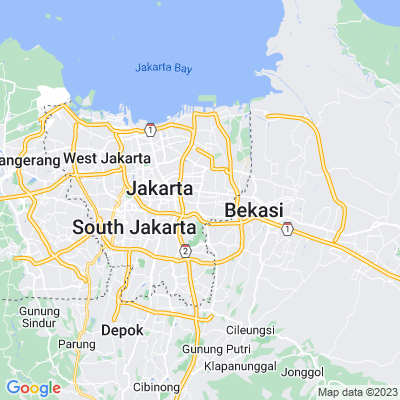
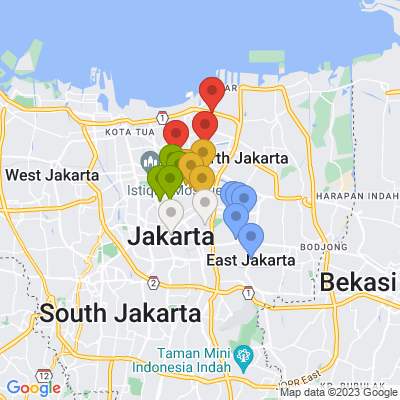
Using google api to input all points needed to be delivered
also colour coded to indicate the areas each driver is recommended to take

google map will be updated in the googlemaps.png

diff --git a/mapgenerator.py b/mapgenerator.py
@@ -1,0 +1,62 @@
+import requests
+import numpy as np
+
+API_KEY = "AIzaSyA5vF812q_CAOD6UvQwH5zPC9-VkXdFtTU"
+
+def colour_list(colour_num):
+    match colour_num:
+        case '1.0':
+            return "red"
+        case '2.0':
+            return "blue"
+        case '3.0':
+            return "green"
+        case "4.0":
+            return "yellow"
+        case "5.0":
+            return "orange"
+        case "6.0":
+            return "purple"
+        case "7.0":
+            return "grey"
+        # Add more cases depending on driver number in area
+        case _:
+            return "white"
+
+def generate_map(centrepoint, clusters):
+    url = "https://maps.googleapis.com/maps/api/staticmap?"
+    zoom = 11
+    #center = "-6.2250138,106.9004472"
+    center = str(centrepoint[0]) + "," + str(centrepoint[1])
+    print(center)
+    print(clusters[0][0])
+    print(clusters)
+    print(len(clusters))
+
+    tags = ""
+    for counter in range(0,len(clusters)):
+        first_lat = clusters[counter][0]
+        second_long = clusters[counter][1]
+        colour_num = clusters[counter][2]
+        print(colour_num)
+        colour = colour_list(str(colour_num))
+        ##FORMAT = &markers=color:<COLOUR>%7C<LATLONG>%size:mid
+        latlong = str(first_lat) + "," + str(second_long)
+        tags += "&markers=color:"+ colour +"%7C"+ latlong +'&size:mid'
+
+    print(tags)
+
+    r = requests.get(url + "center=" + center + "&zoom=" +
+                    str(zoom) + "&size=400x400" + tags + "&key=" +
+                                API_KEY + "&sensor=false")
+
+    # wb mode is stand for write binary mode
+    f = open('googlemaps.png', 'wb')
+
+    # r.content gives content,
+    # in this case gives image
+    f.write(r.content)
+
+    # close method of file object
+    # save and close the file
+    f.close()

diff --git a/K_means.py b/K_means.py
@@ -60,6 +60,7 @@ def draw_proximity_plot(data, cluster_centers, labels, num_drivers) :
 
     centrepoint = data.mean(axis = 0)
     generate_map(centrepoint,t3)
+    #print(centrepoint)
 
     np.random.seed(12334232)
     colors = np.random.rand(num_drivers)
